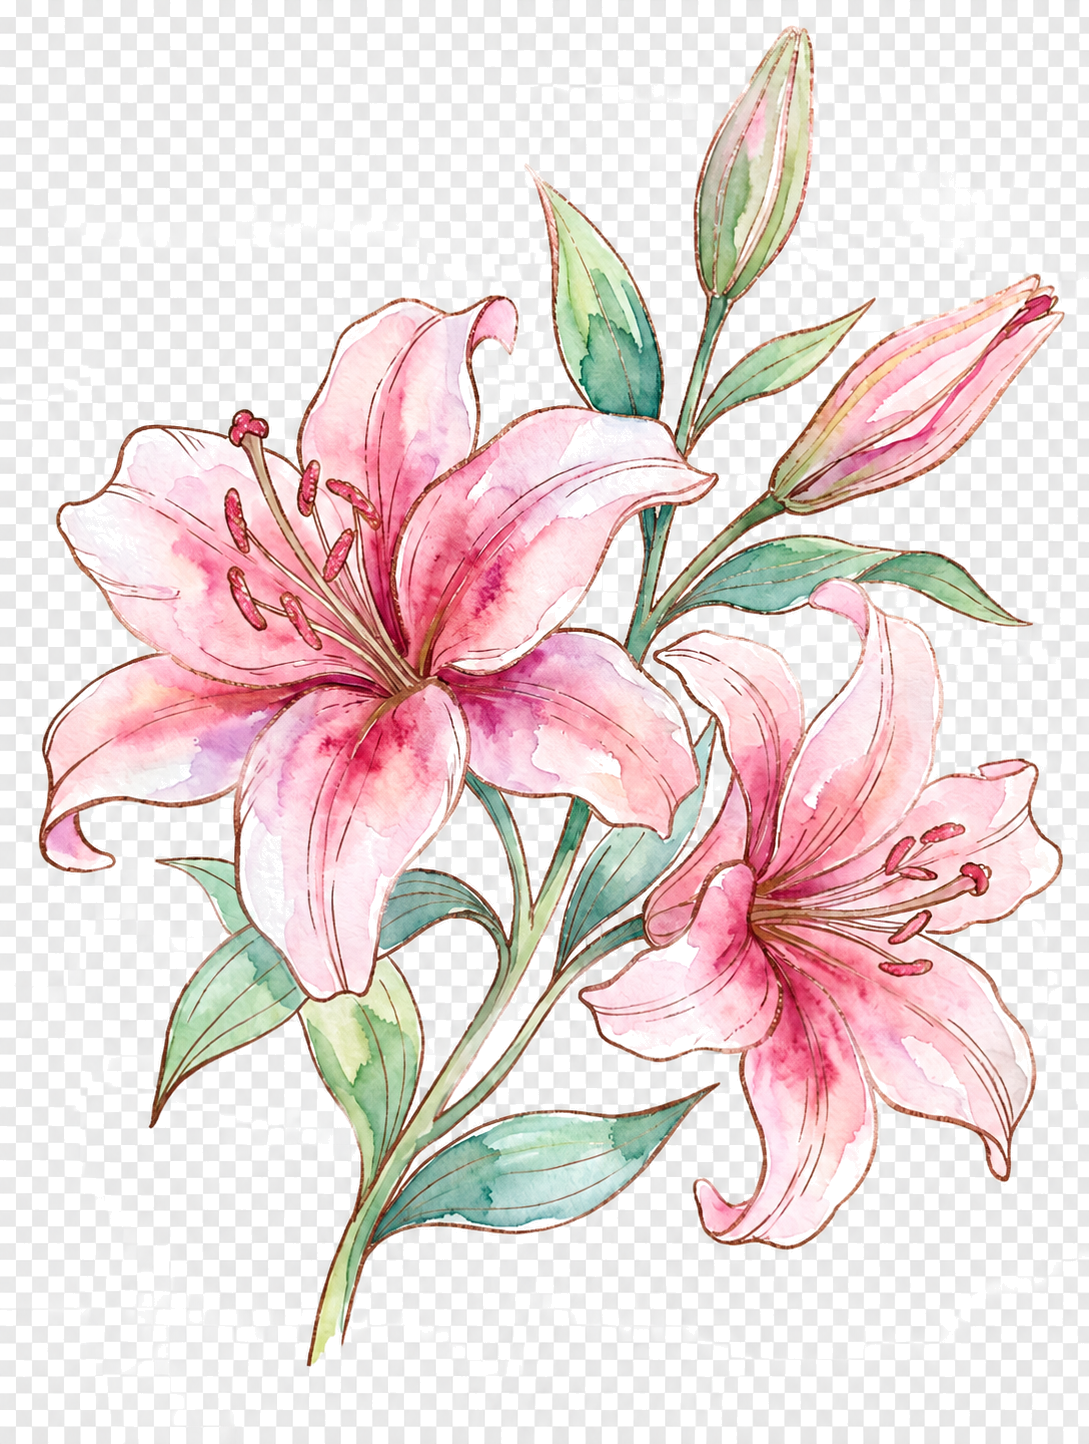
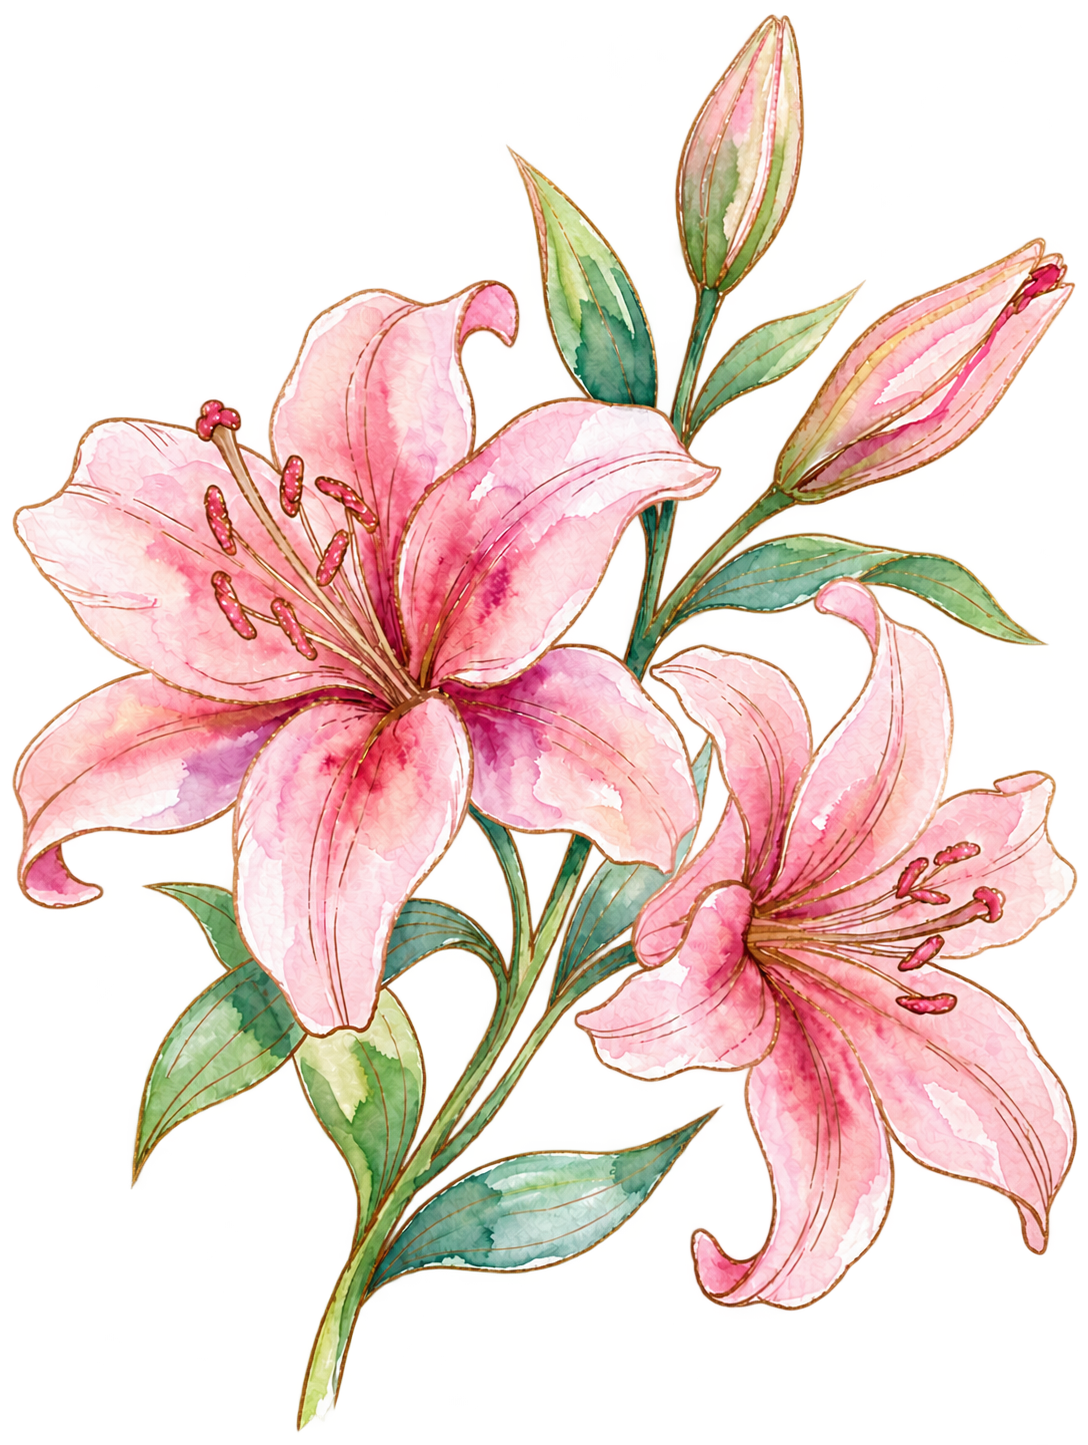
style: make background flowers static, lower opacity, tuck bouquet under envelope

diff --git a/src/components/EnvelopeScene/EnvelopeScene.module.css b/src/components/EnvelopeScene/EnvelopeScene.module.css
@@ -68,35 +68,27 @@
 }
 
 /* =========================================================
-   AMBIENT DECORATIVE LILIES (Soft Dreamy Background Watermark)
+   DECORATIVE LILIES (Subtle, Fixed Watermark Tucked Under Envelope)
    ========================================================= */
 .bgFlowerTopLeft {
   position: absolute;
-  top: -4%;
-  left: -3%;
-  width: clamp(260px, 34vw, 460px);
-  max-width: 48vw;
-  z-index: 2;
+  top: -75px;
+  left: -100px;
+  width: clamp(230px, 48vw, 330px);
+  z-index: 1;
   pointer-events: none;
-  opacity: 0.38;
-  filter: blur(0.3px);
-  transform-origin: top left;
-  animation: flowerSwayLeft 9s ease-in-out infinite;
+  opacity: 0.22;
   user-select: none;
 }
 
 .bgFlowerBottomRight {
   position: absolute;
-  bottom: -5%;
-  right: -3%;
-  width: clamp(240px, 32vw, 440px);
-  max-width: 46vw;
-  z-index: 2;
+  bottom: -65px;
+  right: -85px;
+  width: clamp(220px, 46vw, 320px);
+  z-index: 1;
   pointer-events: none;
-  opacity: 0.38;
-  filter: blur(0.3px);
-  transform-origin: bottom right;
-  animation: flowerSwayRight 10s ease-in-out infinite;
+  opacity: 0.25;
   user-select: none;
 }
 
@@ -107,36 +99,18 @@
   pointer-events: none;
 }
 
-@keyframes flowerSwayLeft {
-  0%, 100% {
-    transform: translate(0, 0) rotate(0deg);
-  }
-  50% {
-    transform: translate(10px, 12px) rotate(1.8deg);
-  }
-}
-
-@keyframes flowerSwayRight {
-  0%, 100% {
-    transform: translate(0, 0) rotate(0deg);
-  }
-  50% {
-    transform: translate(-10px, -12px) rotate(-1.8deg);
-  }
-}
-
 @media (max-width: 768px) {
   .bgFlowerTopLeft {
-    top: -2%;
-    left: -8%;
-    width: clamp(180px, 46vw, 280px);
-    opacity: 0.32;
+    top: -50px;
+    left: -40px;
+    width: clamp(160px, 45vw, 220px);
+    opacity: 0.20;
   }
   .bgFlowerBottomRight {
-    bottom: -3%;
-    right: -8%;
-    width: clamp(170px, 44vw, 260px);
-    opacity: 0.32;
+    bottom: -45px;
+    right: -35px;
+    width: clamp(150px, 43vw, 210px);
+    opacity: 0.22;
   }
 }
 

diff --git a/src/components/EnvelopeScene/EnvelopeScene.tsx b/src/components/EnvelopeScene/EnvelopeScene.tsx
@@ -280,22 +280,6 @@ export default function EnvelopeScene({ onOpen, guest, onMarkOpened }: EnvelopeS
       <div className={styles.background} />
       <div className={styles.backgroundGlow} />
 
-      {/* Ambient background artistic lily flowers */}
-      <div className={styles.bgFlowerTopLeft} aria-hidden="true">
-        <img
-          src="/assets/flowers/Ornate%20Pink%20Lily%20Floral%20Flourish.png"
-          alt=""
-          className={styles.flowerImg}
-        />
-      </div>
-      <div className={styles.bgFlowerBottomRight} aria-hidden="true">
-        <img
-          src="/assets/flowers/Watercolor%20Pink%20Lily%20Bouquet.png"
-          alt=""
-          className={styles.flowerImg}
-        />
-      </div>
-
       {/* Decorative ambient petals */}
       {[15, -20, 30, -10, 45, -35].map((rotation, i) => (
         <div
@@ -327,6 +311,22 @@ export default function EnvelopeScene({ onOpen, guest, onMarkOpened }: EnvelopeS
         tabIndex={0}
         aria-label={opened ? 'Chạm để xem chi tiết lời mời' : 'Chạm vào phong bì để mở thư'}
       >
+        {/* Soft background lilies tucked close to and underneath the envelope */}
+        <div className={styles.bgFlowerTopLeft} aria-hidden="true">
+          <img
+            src="/assets/flowers/Ornate%20Pink%20Lily%20Floral%20Flourish.png"
+            alt=""
+            className={styles.flowerImg}
+          />
+        </div>
+        <div className={styles.bgFlowerBottomRight} aria-hidden="true">
+          <img
+            src="/assets/flowers/Watercolor%20Pink%20Lily%20Bouquet.png"
+            alt=""
+            className={styles.flowerImg}
+          />
+        </div>
+
         {/* Soft shadow on the desk/surface below */}
         <div className={styles.envelopeShadow} />
 
